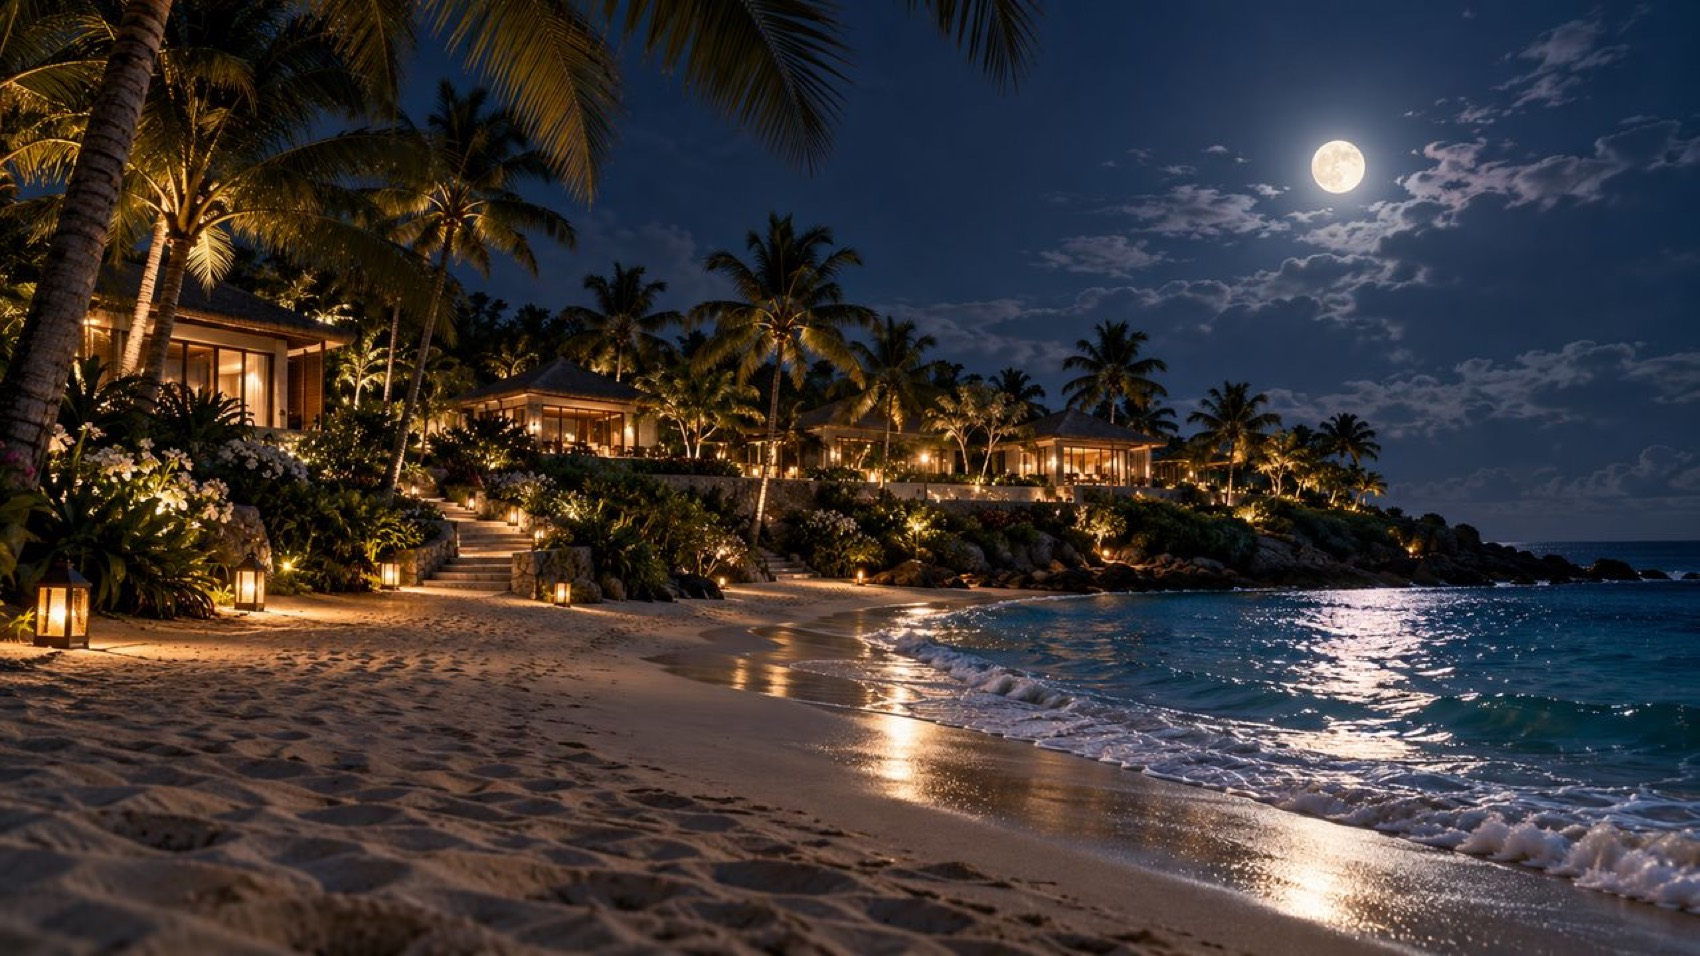
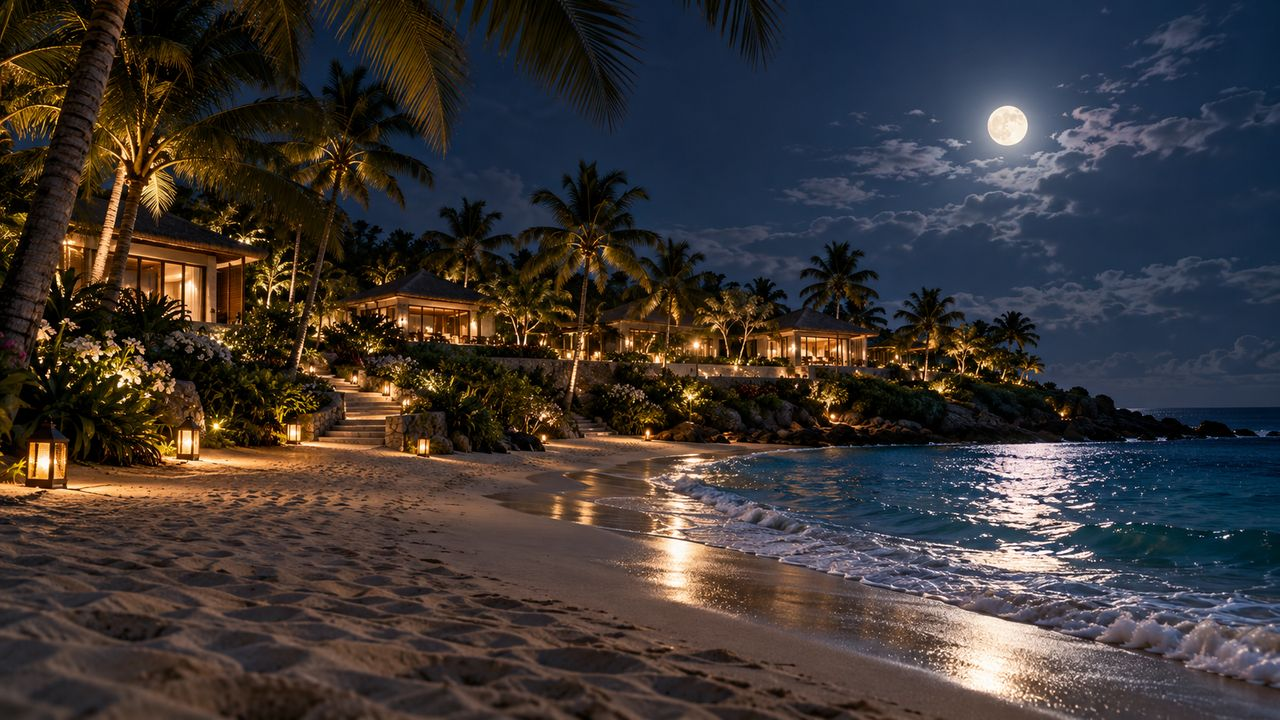
Make the room panel change with the view, and bound the options heading
Room: markers, caption, list heading and list items were hardcoded for
the first view, and data-spots="off" hid the markers on the other two,
so switching the thumbnail changed only the photograph. All four now
come from a ROOM_VIEWS table and rebuild per view, with markers mapped
on all three. Also fixes aspect-ratio being overridden by the height
attribute, which rendered each figure at its full intrinsic height.

Reasons: adds "they might need a doctor while we are there" and "they
need bathroom fittings", and lifts the parent-related reasons above the
commercial ones. The travelling-with-parents answer no longer repeats
grab bars or the on-call doctor, which those two now own.

Headings: "Change anything you need to" promised more than the section
delivers and invited the question; it now names the count the three
buttons below it prove. The distances heading leads with its own two
numbers.

Images: ships the JPEG conversions rather than the PNG masters, which
takes the page from 7.8 MB of imagery to 2.0 MB. Masters stay local.

diff --git a/script.js b/script.js
@@ -107,30 +107,153 @@
 
   /* ------------------------------------------------------------------
      04. THE ROOM PHOTOGRAPH
-     Markers describe what is in the frame; the three thumbnails swap
-     the photograph itself. Markers belong to the first view only.
+     Every view carries its own markers, caption, heading and list, so
+     switching the thumbnail changes the whole panel rather than just
+     the image. Content lives here; the markup is rebuilt from it.
      ------------------------------------------------------------------ */
-  var spots = document.querySelectorAll('.spot');
-  var spotLayer = document.getElementById('roomSpots');
-  var detailTitle = document.getElementById('roomDetailTitle');
-  var detailText = document.getElementById('roomDetailText');
-  var roomPhoto = document.getElementById('roomPhoto');
-  var views = document.querySelectorAll('.view');
+  var ROOM_VIEWS = {
+    room: {
+      src: 'images/ocean-view-suite.jpg',
+      alt: 'Room 214 at ZO Hotels Goa: a king bed with a cane headboard, open balcony doors to a sea view, and a seating corner by the window.',
+      caption: 'Room 214 · 420 sq ft · sea-facing balcony',
+      listTitle: 'In Room 214',
+      detailTitle: 'Four things to look at',
+      detailText: 'Choose a marker on the image to see that part of the room described, measured and confirmed against what is in your booking.',
+      list: [
+        '420 sq ft, second floor, sea side',
+        'King bed with cotton linen and a day bench',
+        'Private balcony with two chairs',
+        'Rain shower, bathtub and Goan toiletries',
+        'Split air conditioning and a ceiling fan',
+        'Wi-Fi in the room, at the pool and in the lounge',
+        'Mini bar restocked daily — soft drinks included',
+        'Tea, filter coffee and still water, replenished',
+        'Safe, iron, smart TV and a writing desk',
+        'Housekeeping twice daily, turndown at seven'
+      ],
+      spots: [
+        { x: 82, y: 56, title: 'King bed, cotton linen', text: 'A single king with a cane headboard, turned down each evening. Charging points and a reading light on both sides.' },
+        { x: 46, y: 61, title: 'Private balcony', text: 'Two cane chairs and a low table facing the sea. The doors slide fully open, and the balcony is yours alone.' },
+        { x: 11, y: 71, title: 'Reading corner', text: 'A lounge chair, side table and floor lamp by the window — where breakfast arrives if you order it in.' },
+        { x: 76, y: 33, title: 'Bedside pendant', text: 'Handblown glass over each bedside table, dimmable, with two plug points and a USB socket below.' }
+      ]
+    },
 
-  function clearSpots() {
-    Array.prototype.forEach.call(spots, function (s) {
-      s.setAttribute('aria-pressed', 'false');
+    angle: {
+      src: 'images/room-second-angle.jpg',
+      alt: 'A second angle of the Deluxe Ocean-View room, showing the dressing console, the day bench at the foot of the bed and the doors folded back to the terrace.',
+      caption: 'Room 214 · from the dressing wall, doors folded back',
+      listTitle: 'From this corner',
+      detailTitle: 'Four more things to look at',
+      detailText: 'The same room from the dressing wall, photographed on the same morning. Tap a marker to see what sits in this half of it.',
+      list: [
+        'Writing desk and dressing console, mirror above',
+        'Day bench at the foot of the bed, for an open suitcase',
+        'Doors that fold back flat into the wall',
+        'Flat threshold between the room and the terrace',
+        'Ceiling fan and split air conditioning, either alone',
+        'Bedside lamps on dimmers, one on each side',
+        'Woven rug underfoot, laid flat to the floor',
+        'Terrace seating beyond the doors, shaded until four'
+      ],
+      spots: [
+        { x: 9,  y: 62, title: 'Writing desk and console', text: 'A full-width console with a mirror above and drawers below — the writing desk listed on your booking. The stool tucks underneath.' },
+        { x: 58, y: 73, title: 'Day bench', text: 'At the foot of the bed, long enough for an open suitcase, so nothing needs to go on the floor.' },
+        { x: 41, y: 42, title: 'Doors, folded back', text: 'The panels slide into the wall and the floor runs straight out to the terrace, with no lip or step between the two.' },
+        { x: 58, y: 6,  title: 'Fan and air conditioning', text: 'A ceiling fan under the cane soffit, with split air conditioning behind it. Either can run on its own.' }
+      ]
+    },
+
+    balcony: {
+      src: 'images/balcony-view.jpg?v=2',
+      alt: 'The balcony of Room 214 at sunset: two cane armchairs either side of a round table set with tea and fruit, with the pool, the palms and the sea beyond.',
+      caption: 'The balcony of Room 214 · six in the evening, looking over the pool',
+      listTitle: 'On your balcony',
+      detailTitle: 'Four things to look at',
+      detailText: 'Your own balcony, photographed at six in the evening. Tap a marker to see what is out here.',
+      list: [
+        'Two deep cane armchairs with cushions, facing the water',
+        'Round teak table low enough to reach from either chair',
+        'Carved balustrade at chest height, no gap beneath it',
+        'Level with the room — no step out onto the balcony',
+        'The pool directly below, the sea past the palm line',
+        'Bougainvillea along the arch, in flower through December',
+        'A lantern over the doorway, lit from dusk',
+        'Shaded until four, then open sun until the light goes'
+      ],
+      spots: [
+        { x: 17, y: 72, title: 'Cane armchairs', text: 'Two of them, deep enough to sit in for an hour, with solid arms to push up from. They face the water rather than each other.' },
+        { x: 50, y: 70, title: 'The teak table', text: 'Round, and low enough to reach without standing. In this photograph it is set with tea and fruit from the kitchen downstairs.' },
+        { x: 80, y: 52, title: 'Balustrade and the pool', text: 'Carved stone at chest height with no gap underneath. The pool sits directly below, and the sea starts past the palms.' },
+        { x: 14, y: 10, title: 'The lantern', text: 'Pierced brass above the doorway, lit from dusk, so the balcony stays usable without turning the room lights back on.' }
+      ]
+    }
+  };
+
+  var spotLayer   = document.getElementById('roomSpots');
+  var detailTitle = document.getElementById('roomDetailTitle');
+  var detailText  = document.getElementById('roomDetailText');
+  var roomPhoto   = document.getElementById('roomPhoto');
+  var roomCaption = document.getElementById('roomCaption');
+  var listTitleEl = document.getElementById('roomListTitle');
+  var ticksEl     = document.getElementById('roomTicks');
+  var views       = document.querySelectorAll('.view');
+
+  /* Markers are rebuilt for each view, so the handler is bound once here
+     and reads its copy from the button it was created with. */
+  function buildSpots(view) {
+    if (!spotLayer) return;
+    spotLayer.innerHTML = '';
+
+    view.spots.forEach(function (s) {
+      var b = document.createElement('button');
+      b.className = 'spot';
+      b.type = 'button';
+      b.style.left = s.x + '%';
+      b.style.top = s.y + '%';
+      b.setAttribute('aria-pressed', 'false');
+
+      var label = document.createElement('span');
+      label.className = 'visually-hidden';
+      label.textContent = s.title;
+      b.appendChild(label);
+
+      b.addEventListener('click', function () {
+        Array.prototype.forEach.call(spotLayer.querySelectorAll('.spot'), function (other) {
+          other.setAttribute('aria-pressed', String(other === b));
+        });
+        if (detailTitle) detailTitle.textContent = s.title;
+        if (detailText) detailText.textContent = s.text;
+      });
+
+      spotLayer.appendChild(b);
     });
   }
 
-  Array.prototype.forEach.call(spots, function (spot) {
-    spot.addEventListener('click', function () {
-      clearSpots();
-      spot.setAttribute('aria-pressed', 'true');
-      if (detailTitle) detailTitle.textContent = spot.dataset.title;
-      if (detailText) detailText.innerHTML = spot.dataset.text;
-    });
-  });
+  function renderView(key) {
+    var view = ROOM_VIEWS[key];
+    if (!view) return;
+
+    if (roomPhoto) {
+      roomPhoto.src = view.src;
+      roomPhoto.alt = view.alt;
+    }
+    if (roomCaption) roomCaption.textContent = view.caption;
+    if (listTitleEl) listTitleEl.textContent = view.listTitle;
+    if (detailTitle) detailTitle.textContent = view.detailTitle;
+    if (detailText) detailText.textContent = view.detailText;
+
+    if (ticksEl) {
+      ticksEl.innerHTML = '';
+      view.list.forEach(function (item) {
+        var li = document.createElement('li');
+        li.textContent = item;
+        ticksEl.appendChild(li);
+      });
+    }
+
+    buildSpots(view);
+  }
 
   Array.prototype.forEach.call(views, function (view) {
     view.addEventListener('click', function () {
@@ -138,28 +261,12 @@
         other.classList.toggle('is-active', other === view);
         other.setAttribute('aria-pressed', String(other === view));
       });
-
-      if (roomPhoto) {
-        roomPhoto.src = view.dataset.src;
-        roomPhoto.alt = view.dataset.alt;
-      }
-
-      // Only the first view is mapped, so hide the markers on the others.
-      var showSpots = view.dataset.spots === 'on';
-      if (spotLayer) {
-        if (showSpots) spotLayer.removeAttribute('hidden');
-        else spotLayer.setAttribute('hidden', '');
-      }
-      if (!showSpots) {
-        clearSpots();
-        if (detailTitle) detailTitle.textContent = 'Another look at the same room';
-        if (detailText) {
-          detailText.textContent =
-            'Taken on the same morning as the main photograph. Return to the first view to see the markers.';
-        }
-      }
+      renderView(view.dataset.view);
     });
   });
+
+  /* First paint, so the panel and the photograph always agree. */
+  if (views.length) renderView(views[0].dataset.view);
 
 
   /* ------------------------------------------------------------------
@@ -321,12 +428,39 @@
       title: 'The desk can have this ready before you arrive',
       text: 'Tell the Care Desk what would help \u2014 a slower pace at breakfast, plainer food, a shorter walk to the pool \u2014 and it is in place before you check in.',
       points: [
-        'A lift from the lobby, step-free rooms, and grab bars in the bathroom',
+        'A lift from the lobby to the door of Room 214, and no step into the room',
         'The kitchen cooks plain, low-spice food on request, at no extra charge',
-        'A doctor is on call 24 hours, and the nearest hospital is 6 km away'
+        'Breakfast on the terrace, or brought up to the room instead'
       ],
       label: 'Talk to the Care Desk',
       action: 'desk'
+    },
+    doctor: {
+      eyebrow: 'If a doctor is needed',
+      title: 'A doctor at any hour, a hospital six kilometres away',
+      text: 'The desk does not send you out looking for help. A doctor attends in the room, and a car stays on the property overnight so nobody is waiting for a taxi at three in the morning.',
+      points: [
+        'A doctor is on call 24 hours and attends in your room, not the lobby',
+        'The nearest hospital is 6 km \u2014 about fifteen minutes, and the desk calls ahead',
+        'Medicines, allergies and conditions are held at the desk, with your consent',
+        'A car and driver stay on the property through the night'
+      ],
+      label: 'Talk to the Care Desk',
+      action: 'desk'
+    },
+    fittings: {
+      eyebrow: 'Fittings for the bathroom',
+      title: 'Fitted before you arrive, at no charge',
+      text: 'Room 214 is fitted out before you land, so there is nothing to arrange at the desk and nothing added to your folio for it.',
+      points: [
+        'Grab bars beside the WC and inside the rain shower',
+        'A teak shower seat and a raised WC seat, fitted to the room',
+        'Non-slip mats in the bathroom and at the step out of the bathtub',
+        'Photographed once fitted and sent to you, so you see it before you fly'
+      ],
+      label: 'Request these fittings',
+      action: 'status',
+      status: 'Bathroom fittings requested for Room 214 \u2014 housekeeping confirms by email with a photograph. (Sample page: nothing was changed.)'
     },
     quiet: {
       eyebrow: 'Worried about the noise',

diff --git a/index.html b/index.html
@@ -187,7 +187,7 @@
         <header class="section__head">
           <p class="eyebrow eyebrow--clay">Room 214, second floor, sea side</p>
           <h2 class="section__title" id="roomTitle">The room you booked</h2>
-          <p class="section__sub">Photographed this month, in daylight, with no wide-angle lens. Tap any marker to see what is in the frame.</p>
+          <p class="section__sub">Photographed this month, in daylight, with no wide-angle lens. Switch the view, then tap any marker to see what is in the frame.</p>
         </header>
 
         <div class="room">
@@ -198,30 +198,9 @@
                  alt="Room 214 at ZO Hotels Goa: a king bed with a cane headboard, open balcony doors to a sea view, and a seating corner by the window."
                  width="1672" height="941" loading="lazy">
 
-            <div class="room__spots" id="roomSpots">
-              <button class="spot" type="button" style="left:82%; top:56%"
-                      data-title="King bed, cotton linen"
-                      data-text="A single king with a cane headboard, turned down each evening. Charging points and a reading light on both sides."
-                      aria-pressed="false"><span class="visually-hidden">King bed, cotton linen</span></button>
+            <div class="room__spots" id="roomSpots"></div>
 
-              <button class="spot" type="button" style="left:46%; top:61%"
-                      data-title="Private balcony"
-                      data-text="Two cane chairs and a low table facing the sea. The doors slide fully open, and the balcony is yours alone."
-                      aria-pressed="false"><span class="visually-hidden">Private balcony</span></button>
-
-              <button class="spot" type="button" style="left:11%; top:71%"
-                      data-title="Reading corner"
-                      data-text="A lounge chair, side table and floor lamp by the window &mdash; where breakfast arrives if you order it in."
-                      aria-pressed="false"><span class="visually-hidden">Reading corner</span></button>
-
-
-              <button class="spot" type="button" style="left:76%; top:33%"
-                      data-title="Bedside pendant"
-                      data-text="Handblown glass over each bedside table, dimmable, with two plug points and a USB socket below."
-                      aria-pressed="false"><span class="visually-hidden">Bedside pendant</span></button>
-            </div>
-
-            <figcaption class="room__caption">Room 214 &middot; 420 sq ft &middot; sea-facing balcony</figcaption>
+            <figcaption class="room__caption" id="roomCaption">Room 214 &middot; 420 sq ft &middot; sea-facing balcony</figcaption>
           </figure>
 
           <!-- Detail panel, updated by the markers -->
@@ -235,37 +214,20 @@
               </p>
             </div>
 
-            <h3 class="room__list-title">In Room 214</h3>
-            <ul class="ticks">
-              <li>420 sq ft, second floor, sea side</li>
-              <li>King bed with cotton linen and a day bench</li>
-              <li>Private balcony with two chairs</li>
-              <li>Rain shower, bathtub and Goan toiletries</li>
-              <li>Split air conditioning and a ceiling fan</li>
-              <li>Wi-Fi in the room, at the pool and in the lounge</li>
-              <li>Mini bar restocked daily &mdash; soft drinks included</li>
-              <li>Tea, filter coffee and still water, replenished</li>
-              <li>Safe, iron, smart TV and a writing desk</li>
-              <li>Housekeeping twice daily, turndown at seven</li>
-            </ul>
+            <h3 class="room__list-title" id="roomListTitle">In Room 214</h3>
+            <ul class="ticks" id="roomTicks"></ul>
 
             <!-- Switch between three views of the same room -->
             <div class="room__views" role="group" aria-label="Other views of Room 214">
-              <button class="view is-active" type="button" data-src="images/ocean-view-suite.jpg"
-                      data-alt="Room 214 at ZO Hotels Goa: a king bed with a cane headboard, open balcony doors to a sea view, and a seating corner by the window."
-                      data-spots="on" aria-pressed="true">
+              <button class="view is-active" type="button" data-view="room" aria-pressed="true">
                 <img src="images/ocean-view-suite.jpg" alt="" loading="lazy">
                 <span>The room</span>
               </button>
-              <button class="view" type="button" data-src="images/room-second-angle.jpg"
-                      data-alt="A second angle of the Deluxe Ocean-View room, showing the writing desk and the doors to the balcony."
-                      data-spots="off" aria-pressed="false">
+              <button class="view" type="button" data-view="angle" aria-pressed="false">
                 <img src="images/room-second-angle.jpg" alt="" loading="lazy">
                 <span>Second angle</span>
               </button>
-              <button class="view" type="button" data-src="images/balcony-view.jpg?v=2"
-                      data-alt="The balcony of Room 214 at sunset: two cane armchairs either side of a round table set with tea and fruit, with the pool, the palms and the sea beyond."
-                      data-spots="off" aria-pressed="false">
+              <button class="view" type="button" data-view="balcony" aria-pressed="false">
                 <img src="images/balcony-view.jpg?v=2" alt="" loading="lazy">
                 <span>Balcony view</span>
               </button>
@@ -368,7 +330,7 @@
 
           <div class="around__body">
             <p class="eyebrow eyebrow--clay">Candolim, North Goa</p>
-            <h2 class="section__title" id="aroundTitle">How far everything is</h2>
+            <h2 class="section__title" id="aroundTitle">Six minutes to the sand, forty to the plane</h2>
             <p class="section__sub">Measured from the hotel gate, in traffic you would actually meet in December.</p>
 
             <ul class="distances">
@@ -435,7 +397,7 @@
       <div class="shell">
         <header class="section__head">
           <p class="eyebrow eyebrow--clay">Reservation ZOG-48217</p>
-          <h2 class="section__title" id="manageTitle">Change anything you need to</h2>
+          <h2 class="section__title" id="manageTitle">Three things you can still change</h2>
           <p class="section__sub">Dates, room and extras can all move. Changes made before 5 December carry no fee, and your nightly rate travels with you.</p>
         </header>
 
@@ -550,12 +512,14 @@
         <p class="modal__sub">Choose the closest one and we will show you what can be done about it.</p>
 
         <ul class="reasons" id="reasonList">
-          <li><button class="reason" type="button" data-key="price">I found a better price elsewhere</button></li>
           <li><button class="reason" type="button" data-key="dates">My travel dates have moved</button></li>
+          <li><button class="reason" type="button" data-key="care">I am travelling with my parents</button></li>
+          <li><button class="reason" type="button" data-key="doctor">They might need a doctor while we are there</button></li>
+          <li><button class="reason" type="button" data-key="fittings">They need bathroom fittings</button></li>
+          <li><button class="reason" type="button" data-key="quiet">I am worried it will be too loud</button></li>
+          <li><button class="reason" type="button" data-key="price">I found a better price elsewhere</button></li>
           <li><button class="reason" type="button" data-key="room">I booked the wrong room type</button></li>
           <li><button class="reason" type="button" data-key="guests">Fewer of us are travelling</button></li>
-          <li><button class="reason" type="button" data-key="care">I am travelling with my parents</button></li>
-          <li><button class="reason" type="button" data-key="quiet">I am worried it will be too loud</button></li>
           <li><button class="reason" type="button" data-key="other">Something else</button></li>
         </ul>
       </div>
